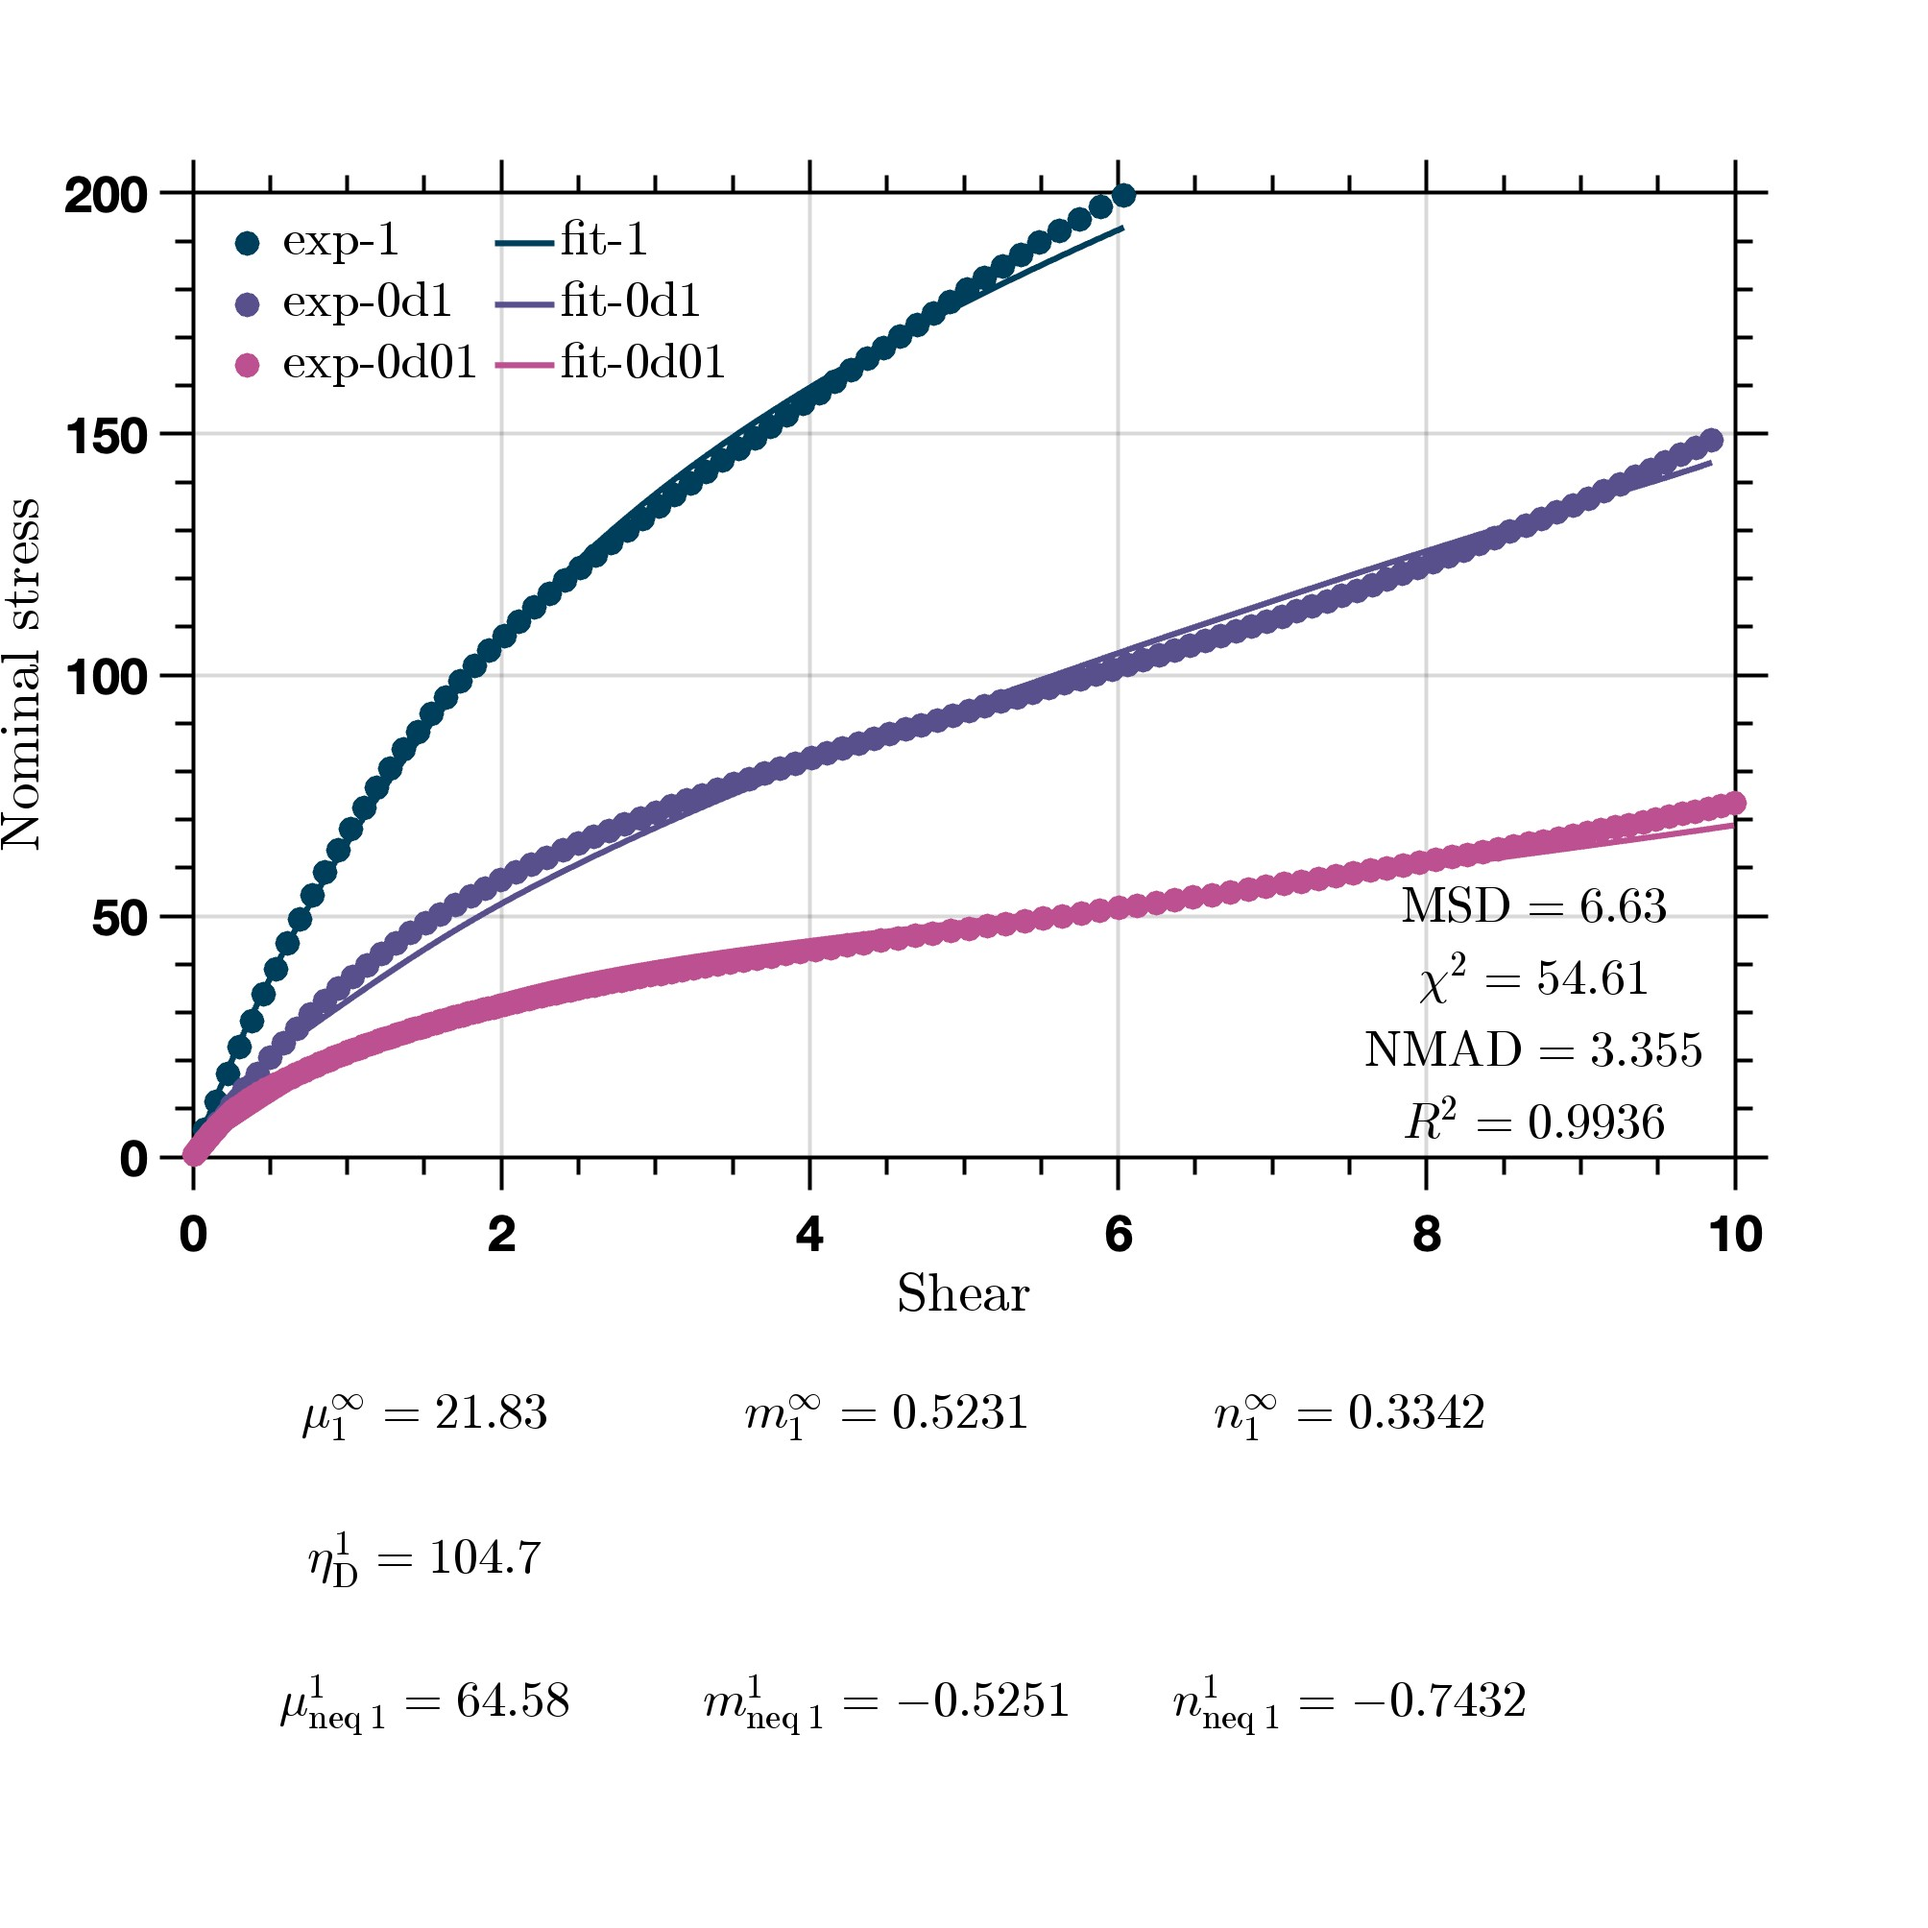
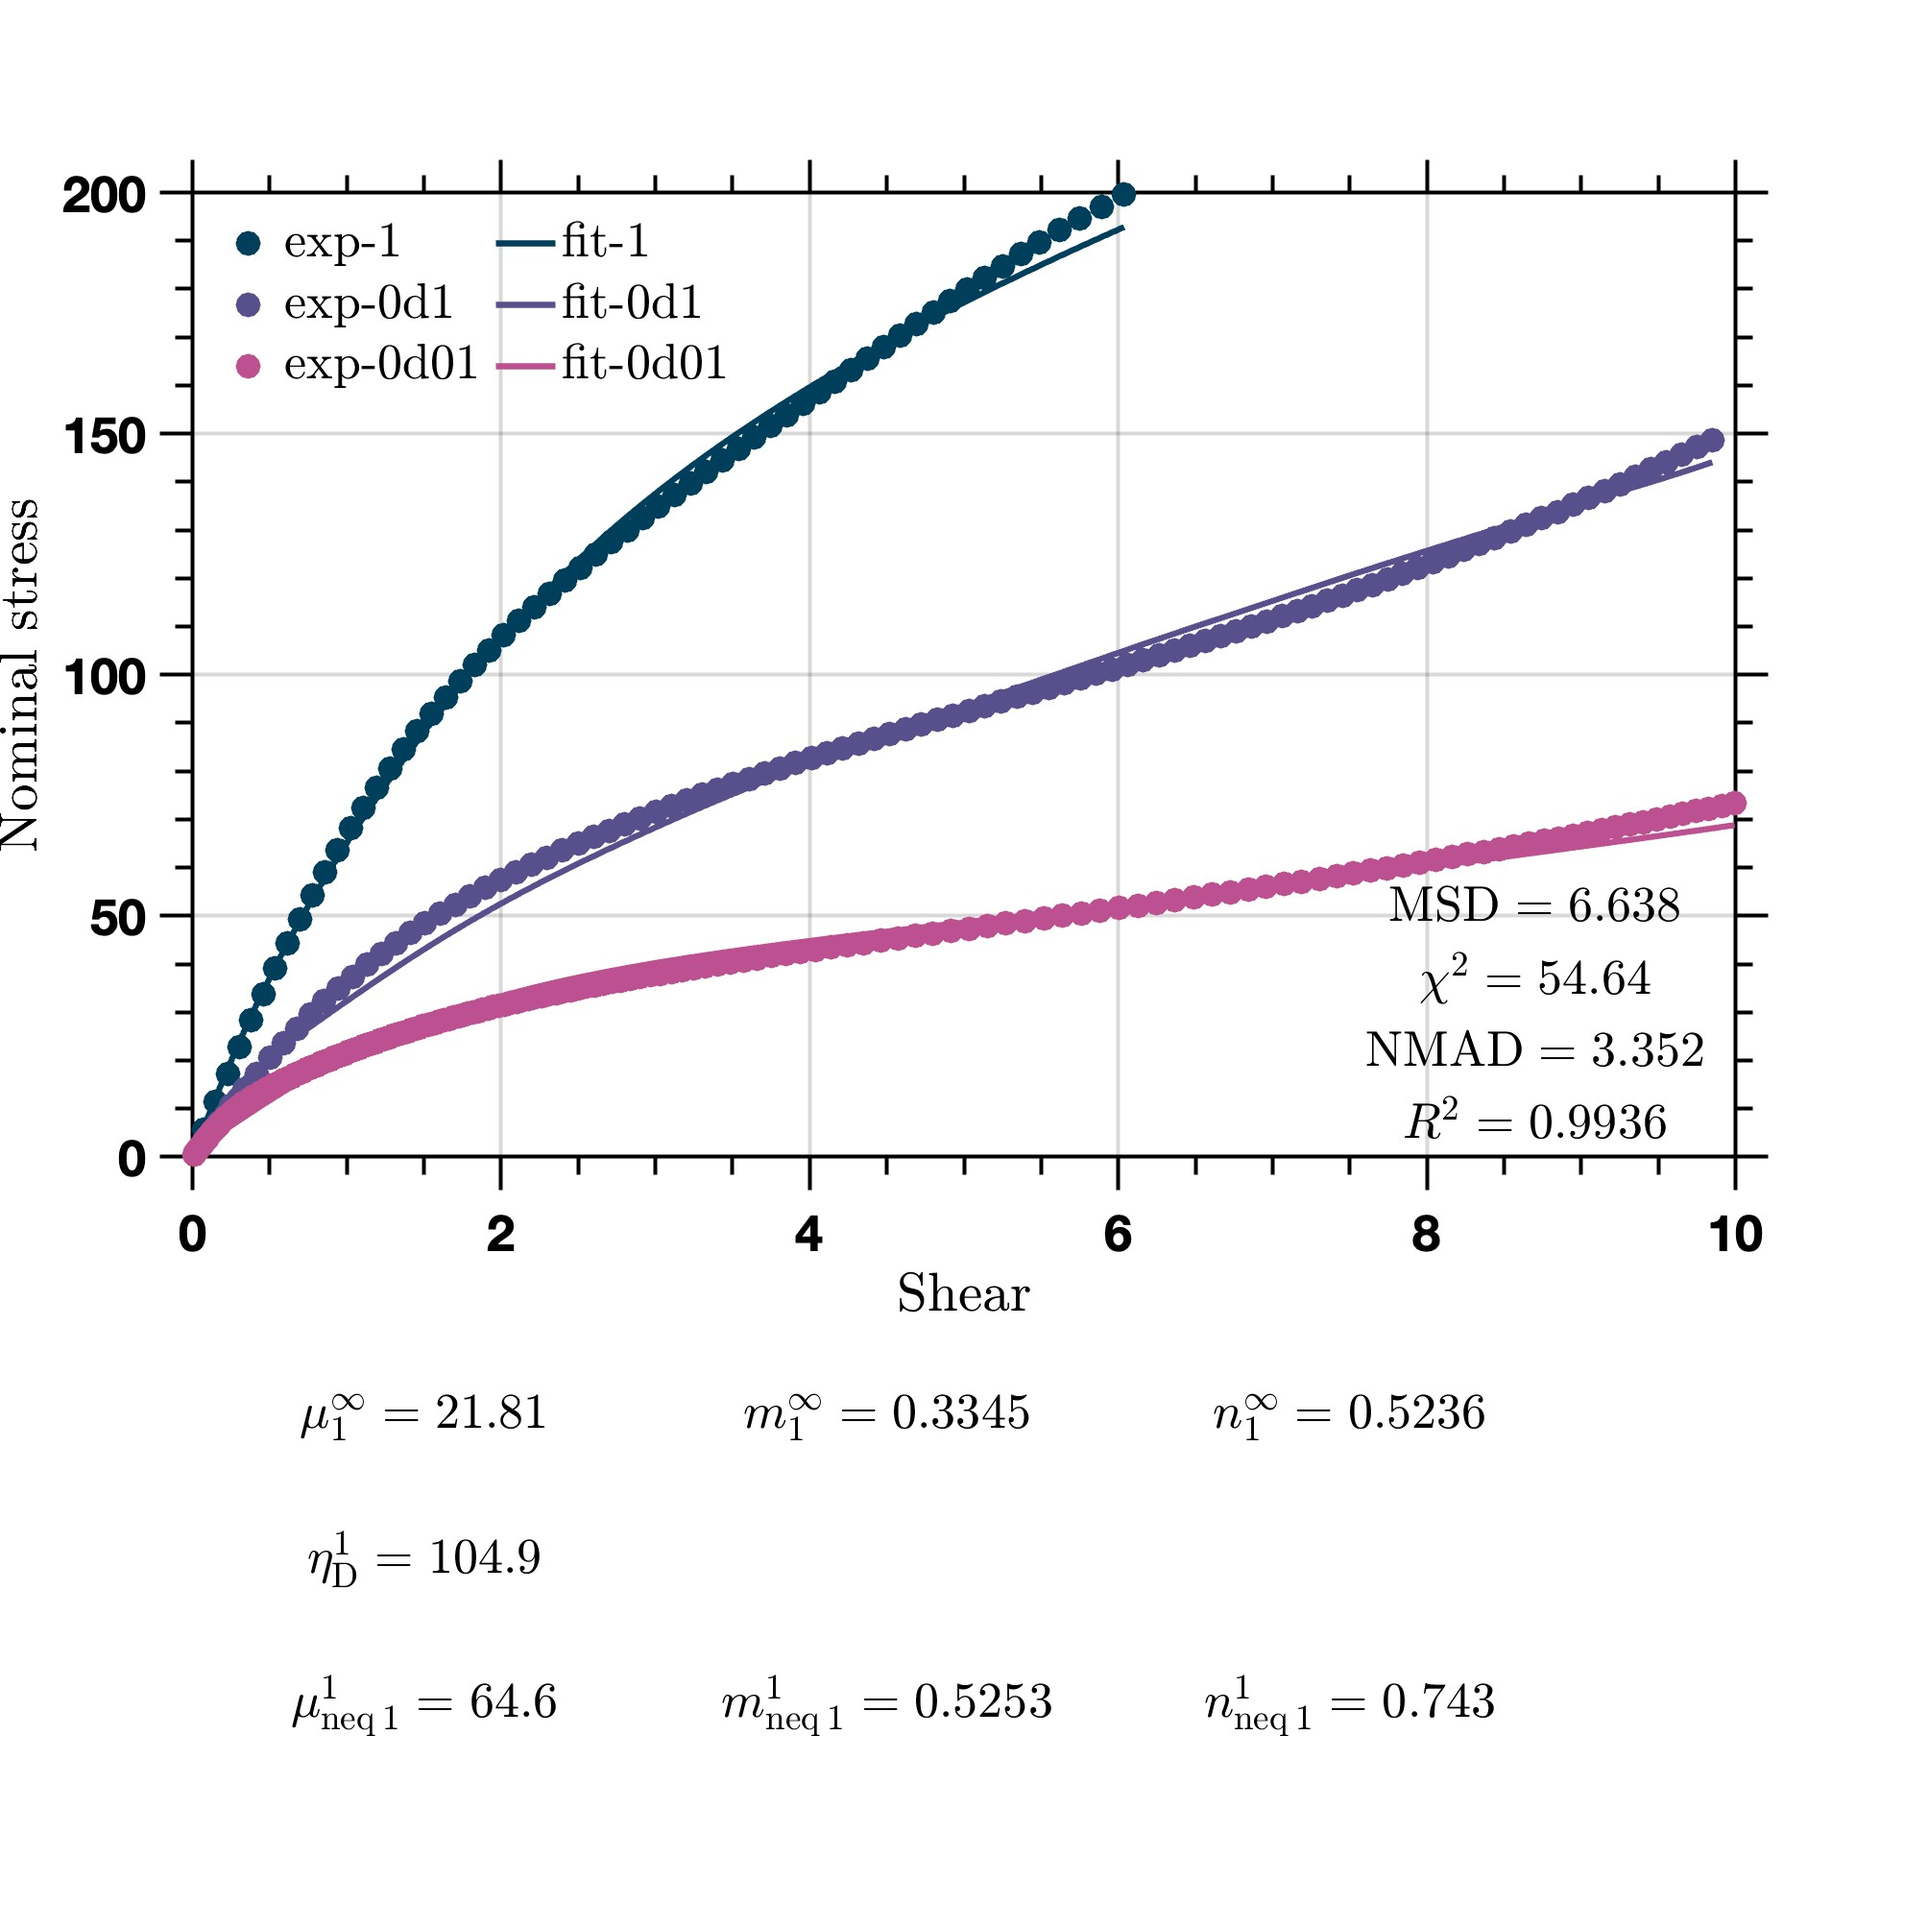
update

diff --git a/additive_CR_shear/simultaneous_monotonic_shear_driver.m b/additive_CR_shear/simultaneous_monotonic_shear_driver.m
@@ -54,7 +54,7 @@ objectiveFunction = @(paras) multi_objective(paras, Ft_1, P_exp_1, time_1,...
                                                     Ft_3, P_exp_3, time_3,...
                                                     num_eq, num_neq);
 options = optimoptions('lsqnonlin', ...
-    'Algorithm', 'interior-point', ...
+    'Algorithm', 'trust-region-reflective', ...
     'MaxIterations', 2000, ...
     'Display', 'iter-detailed');
 
